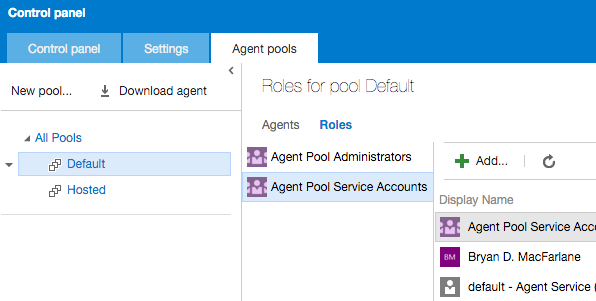
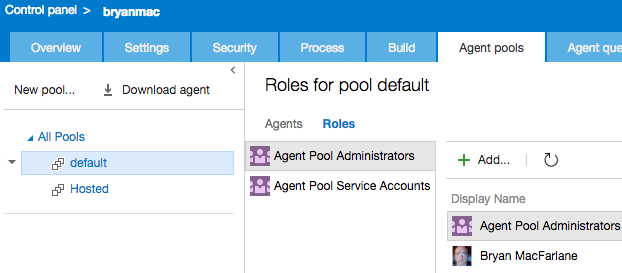
2.102.0 Doc Updates (#287)
* 2.102.0 docs

* 2.102.0 role changes

* 2.102.0 status update

* remove dupe message

* start links

* troubleshooting md

* typo

* troubleshooting content - didn't save

* tweak

* system.debug note

* fiddler docs

Changed region(s): [[0.0, 0.0879, 1.0, 1.0], [0.0, 0.0, 0.2718, 0.0586], [0.0302, 0.7619, 0.3624, 0.7912]]

diff --git a/README.md b/README.md
@@ -9,27 +9,25 @@ Supported on Windows, OSX, Ubuntu and Red Hat.  Written for the .NET Core CLR as
 
 ## Status
 
-A preview is available for Ubuntu, RedHat and OSX for VSTS.  The current preview is more feature complete than the node agent bringing Auto Update, Cancellation, Run as a svc on OSX and Linux, and Gated support.
+The preview is feature complete on all platforms and supported for production use. 
 
-What's missing from the preview? Windows tf.exe support is finishing up. 
+The current preview is more feature complete than the node agent bringing Auto Update, Cancellation, Run as a svc on OSX and Linux, and Gated support.
 
 |   | Build & Test | Preview | Release |
 |---|:-----:|:-----:|:-----:|
-|![Apple](docs/res/apple_med.png) **OSX**|![Build & Test](https://mseng.visualstudio.com/_apis/public/build/definitions/b924d696-3eae-4116-8443-9a18392d8544/3080/badge?branch=master)| [Preview 6 v2.101.1](https://github.com/Microsoft/vsts-agent/releases/tag/v2.101.1) | June |
-|![Ubuntu](docs/res/ubuntu_med.png) **Ubuntu**|![Build & Test](https://mseng.visualstudio.com/_apis/public/build/definitions/b924d696-3eae-4116-8443-9a18392d8544/2853/badge?branch=master)| [Preview 6 v2.101.1](https://github.com/Microsoft/vsts-agent/releases/tag/v2.101.1) | June |
-|![RedHat](docs/res/redhat_med.png) **RedHat**|![Build & Test](https://mseng.visualstudio.com/_apis/public/build/definitions/b924d696-3eae-4116-8443-9a18392d8544/3418/badge?branch=master)| [Preview 6 v2.101.1](https://github.com/Microsoft/vsts-agent/releases/tag/v2.101.1) | June |
-|![Win](docs/res/win_med.png) **Windows**|![Build & Test](https://mseng.visualstudio.com/_apis/public/build/definitions/b924d696-3eae-4116-8443-9a18392d8544/2850/badge?branch=master)| [Preview 3 v2.101.1](https://github.com/Microsoft/vsts-agent/releases/tag/v2.101.1) | |
+|![Apple](docs/res/apple_med.png) **OSX**|![Build & Test](https://mseng.visualstudio.com/_apis/public/build/definitions/b924d696-3eae-4116-8443-9a18392d8544/3080/badge?branch=master)| [RC v2.102.0](https://github.com/Microsoft/vsts-agent/releases/tag/v2.102.0) | Next Drop |
+|![Ubuntu](docs/res/ubuntu_med.png) **Ubuntu**|![Build & Test](https://mseng.visualstudio.com/_apis/public/build/definitions/b924d696-3eae-4116-8443-9a18392d8544/2853/badge?branch=master)| [RC v2.102.0](https://github.com/Microsoft/vsts-agent/releases/tag/v2.102.0) | Next Drop |
+|![RedHat](docs/res/redhat_med.png) **RedHat**|![Build & Test](https://mseng.visualstudio.com/_apis/public/build/definitions/b924d696-3eae-4116-8443-9a18392d8544/3418/badge?branch=master)| [RC v2.102.0](https://github.com/Microsoft/vsts-agent/releases/tag/v2.102.0) | Next Drop |
+|![Win](docs/res/win_med.png) **Windows**|![Build & Test](https://mseng.visualstudio.com/_apis/public/build/definitions/b924d696-3eae-4116-8443-9a18392d8544/2850/badge?branch=master)| [Preview 4 v2.102.0](https://github.com/Microsoft/vsts-agent/releases/tag/v2.102.0) | July |
 
 ## Preview Support
-
-This is the current state of what works with the preview.  
 
 This agent can be used for the VSTS service and it replaces the node agent for TFS2015 On-Prem.
 
 | Scenario | OSX/Unix | Windows | Comment |
 |:-------------:|:-----:|:-----:|:-----:|
 | VSTS Git      |  Yes  | Yes   |
-| VSTS TfsVC    |  Yes  | Soon  |
+| VSTS TfsVC    |  Yes  | Yes  |
 | TFS2015 Git   |  Yes  | No    | Win use agent with 2015 |
 | TFS2015 TfsVC |  Yes  | No    | Win use agent with 2015 |
 
@@ -48,6 +46,10 @@ This agent can be used for the VSTS service and it replaces the node agent for T
 ![ubuntu](docs/res/ubuntu_sm.png)  [Start Ubuntu](docs/start/startubuntu.md)  
 
 ![redhat](docs/res/redhat_sm.png)  [Start RedHat](docs/start/startredhat.md)  
+
+## Troubleshooting
+
+Troubleshooting tips are [located here](docs/troubleshooting.md)
 
 ## Contribute
 

diff --git a/docs/start/nixsvc.md b/docs/start/nixsvc.md
@@ -1,17 +1,23 @@
 # Running As A Service On Unix and OSX
 
-## Configuration
+Key Points:
+  - This is a convenience which only creates OS specific service files.
+  - SystemD is used on Linux.  Ubuntu 16 LTS, Redhat 7.1 has SystemD
+  - SystemD requires sudo so all scripts below must be called with sudo.  OSX does not.
 
-**During configuration, answer Y to run as a service**.  
+## Install
 
-The systemd and launchagent files run ./runsvc.sh which will set PATH to that if it's present.
+Install will create a LaunchAgent plist on OSX or a systemd unit file on Linux
 
-You can also inject anything you want to run when the service runs.  For example setting up environment, calling other scripts etc...
-
-./runsvc.sh
+```bash
+$ ./svc.sh install
+...
+Creating runsvc.sh
+Creating .Service
+svc install complete
 ```
-# insert anything to setup env when running as a service
-```
+
+Service files point to `./runsvc.sh` which will setup the environment and start the agents host.  See Environment section below.
 
 Start and stop the service after making changes
 
@@ -74,7 +80,7 @@ On OSX the convenience default is to create the service as a LaunchAgent.  A Lau
 
 When you install and/or configure tools, your path is often setup or other environment variables are set.  Examples are PATH, JAVA_HOME, ANT_HOME, MYSQL_PATH etc...
 
-If your environment changes at any time, you can run env.sh and it will update your path.  You can also manually edit .Env file.  Changes are retained. 
+If your environment changes at any time, you can run env.sh and it will update your path.  You can also manually edit .env file.  Changes are retained. 
 
 Stop and start the service for changes to take effect.
 
@@ -90,23 +96,34 @@ Started:
 15397 0 vsts.agent.bryanmac.testsvc2
 ```
 
+## Environment
+
 Configuring as a service will snapshot off your PATH and other "interesting variables" like LANG, JAVA_HOME etc..  When the service starts, it will read these and set.  This allows for unified environment management between
 
 ```bash
 $ ls -la
--rwxrwx---    1 bryanmac  staff   189 May 29 11:42 .Agent
--rwxrwx---    1 bryanmac  staff   106 May 29 11:41 .Credentials
--rw-r--r--    1 bryanmac  staff    58 May 29 11:44 .Env
--rw-r--r--    1 bryanmac  staff   187 May 29 11:40 .Path
+-rwxrwx---    1 bryanmac  staff   189 May 29 11:42 .agent
+-rwxrwx---    1 bryanmac  staff   106 May 29 11:41 .credentials
+-rw-r--r--    1 bryanmac  staff    58 May 29 11:44 .env
+-rw-r--r--    1 bryanmac  staff   187 May 29 11:40 .path
 ...
 -rwxr-xr-x    1 bryanmac  staff   546 May 29 11:40 env.sh
+```
+
+Run ./env.sh to update.
+
+You can also inject anything you want to run when the service runs.  For example setting up environment, calling other scripts etc...
+
+./runsvc.sh
+```
+# insert anything to setup env when running as a service
 ```
 
 ## Service Files
 
 This is a convenience that simply creates a service file for you can sets permissions.  You are free to manually configure and control your service using alternate methods.
 
-Details are in .Service file in root of the agent
+Details are in .service file in root of the agent
 
 OSX LaunchAgent: ~/Library/LaunchAgents/vsts.agent.{accountName}.{agentName}.plist
 Linux SystemD: /etc/systemd/system/vsts.agent.{accountName}.{agentName}.service
@@ -117,9 +134,4 @@ OSX: ./bin/vsts.agent.plist.template
 Linux: ./bin/vsts.agent.service.template
 
 For example, on OSX you could use that template to run as a launch daemon if you are not needing UI tests and/or don't want to configure auto logon lock. [Details Here](https://developer.apple.com/library/mac/documentation/MacOSX/Conceptual/BPSystemStartup/Chapters/CreatingLaunchdJobs.html)
-
-
-
-
-
 

diff --git a/docs/troubleshooting.md b/docs/troubleshooting.md
@@ -1,0 +1,71 @@
+# Troubleshooting
+
+The agent sends logs to the server but some failures such as configuration, networking or permissions prevent that.  It requires investigating within the agent.
+
+Often these logs are most relevant to the product but they can sometimes provide hints to a user as what could be wrong.
+
+## System.Debug
+
+If you are having issues with a build, the first step is to set System.Debug to true on the build definitions variables tab.  The agent and tasks will emit [debug]xxx lines for more detailed insight into what the specific task is doing.
+
+## Agent Trace Logs
+
+Logs are in the _diag folder.
+
+The agent has two parts.  The agent which listens to the build queue.  When it gets a build message, it creates a worker process to run that build.  
+
+For example:
+```bash
+$ ls -la _diag/
+-rwxr--r--   1 bryanmac  staff   23126 Jun 11 06:43 Agent_20160611-104223-utc.log
+-rwxr--r--   1 bryanmac  staff   26046 Jun 11 08:39 Agent_20160611-123755-utc.log
+-rwxr--r--   1 bryanmac  staff  240035 Jun 11 08:38 Worker_20160611-123825-utc.log
+-rwxr--r--   1 bryanmac  staff  220196 Jun 11 08:38 Worker_20160611-123843-utc.log
+-rwxr--r--   1 bryanmac  staff  220012 Jun 11 08:39 Worker_20160611-123858-utc.log
+```
+
+If the agent isn't picking up builds, the agent logs are likely the most relevant.  If a build starts running and you want to get details of that build, the specific worker log is relevant.
+
+Secrets are masked out of the logs.
+
+## Http Tracing Windows
+
+Start [Fiddler](http://www.telerik.com/fiddler).  
+It's recommended to only listen to agent traffic.  File, Capture Traffic off (F12) 
+
+Let the agent know to use the proxy:
+
+```bash
+set VSTS_HTTP_PROXY=https://127.0.0.1:8888
+```
+
+Run the agent interactively.  If you're running as a service, you can set as the environment variable in control panel for the account the service is running as.
+
+Restart the agent.
+
+TODO: video
+
+## Http Tracing OSX / Linux
+
+It's easy to capture the http trace of the agent using Charles Proxy (similar to Fiddler on windows).  
+
+TODO: video
+
+Start Charles Proxy
+Charles: Proxy > Proxy Settings > SSL Tab.  Enable.  Add URL
+Charles: Proxy > Mac OSX Proxy.  Recommend disabling to only see agent traffic.
+
+```bash
+export VSTS_HTTP_PROXY=https://127.0.0.1:8888
+```
+
+Run the agent interactively.  If it's running as a service, you can set in the .env file.  See [nix service](start/nixsvc.md)
+
+Restart the agent.
+
+## Security Notice
+
+HTTP traces and trace files can contain credentials.  
+
+1. Do not POST them on a publically accessible site.
+2. If you send them to the product team, they will be treated securely and discarded after the investigation.

diff --git a/docs/start/roles.md b/docs/start/roles.md
@@ -1,17 +1,20 @@
 # Configure Account and Roles
 
-VSTS only for now.  On-prem coming with NTLM support in the works.
+## VSTS
 
 Create a PAT token.  [Step by Step here](http://roadtoalm.com/2015/07/22/using-personal-access-tokens-to-access-visual-studio-online/)
 
-Add the user you created the PAT token for to *both*:
+## On Premises TFS
 
-  1. Agent Pool Administrators (allows to register)
-  2. Agent Pool Service Accounts (allows listening to build queue)
+You can use a domain user but it's recommended to create a local windows user on each of your application tiers specifically for registering build agents.
+
+## Add to Role
+
+Add the user from above to only the Agent Pool Administrators which allows you to register the agent.
 
 ![Agent Roles](roles.png "Agent Roles")
 
 >> TIPS:
 >> You can add to roles for a specific pool or select "All Pools" on the left and grant for all pools.  This allows the account owner to delegate build administration globally or for specific pools.  [More here](https://msdn.microsoft.com/en-us/Library/vs/alm/Build/agents/admin)
->> The PAT token is only used to listen to the message queue for a build job
->> When a build is run, it will generate an OAuth token for the scoped identity selected on the general tab of the build definition.  That token is short lived and will be used to access resource in VSTS
+>> The role is only needed to register the agent.  A token is downloaded to listen to the queue.
+>> When a build is run, it will generate an OAuth token for the scoped identity selected on the general tab of the build definition.  That token is short lived and will be used to access resource in VSTS.  The account used to register the agent has no bearing on the build run time credentials

diff --git a/docs/start/startwin.md b/docs/start/startwin.md
@@ -1,20 +1,18 @@
 # ![win](../res/win_med.png) Windows Agent
 
-> NOTE: Preview 1 only has git support.  TFSVC support is in progress for the next preview.
-
 ## Step 1: System Requirements
 
 [Read here](../preview/latebreaking.md) to ensure system packages are installed
 
 ## Step 2: Download from Releases
 
-Download the agent from [github releases](https://github.com/Microsoft/vsts-agent/releases/tag/v2.101.1)
+Download the agent from [github releases](https://github.com/Microsoft/vsts-agent/releases/tag/v2.102.0)
 
 ## Step 3: Create the agent
 
 ```bash
 c:\ mkdir myagent && cd myagent
-C:\myagent> Add-Type -AssemblyName System.IO.Compression.FileSystem ; [System.IO.Compression.ZipFile]::ExtractToDirectory("$HOME\Downloads\vsts-agent-win7-x64-2.101.1.zip", "$PWD")
+C:\myagent> Add-Type -AssemblyName System.IO.Compression.FileSystem ; [System.IO.Compression.ZipFile]::ExtractToDirectory("$HOME\Downloads\vsts-agent-win7-x64-2.102.0.zip", "$PWD")
 ```
 ## Step 4: Configure
 

diff --git a/docs/start/startubuntu.md b/docs/start/startubuntu.md
@@ -8,13 +8,13 @@
 
 ## Step 2: Download from Releases
 
-Download the agent from [github releases](https://github.com/Microsoft/vsts-agent/releases/tag/v2.101.1)
+Download the agent from [github releases](https://github.com/Microsoft/vsts-agent/releases/tag/v2.102.0)
 
 ## Step 3: Create the agent
 
 ```bash
 ~/$ mkdir myagent && cd myagent
-~/myagent$ tar xzf ~/Downloads/vsts-agent-ubuntu.14.04-x64-2.101.1.tar.gz
+~/myagent$ tar xzf ~/Downloads/vsts-agent-ubuntu.14.04-x64-2.102.0.tar.gz
 ```
 ## Step 4: Configure
 
@@ -30,8 +30,6 @@ Download the agent from [github releases](https://github.com/Microsoft/vsts-agen
 > NOTE: running as a service [details here](nixsvc.md)
 
 ## Step 5: Optionally run the agent interactively
-
-If you didn't run as a service above:
 
 ```bash
 ~/myagent$ ./run.sh

diff --git a/docs/start/startosx.md b/docs/start/startosx.md
@@ -6,13 +6,13 @@
 
 ## Step 2: Download from Releases
 
-Download the agent from [github releases](https://github.com/Microsoft/vsts-agent/releases/tag/v2.101.1)
+Download the agent from [github releases](https://github.com/Microsoft/vsts-agent/releases/tag/v2.102.0)
 
 ## Step 3: Create the agent
 
 ```bash
 ~/$ mkdir myagent && cd myagent
-~/myagent$ tar xzf ~/Downloads/vsts-agent-osx.10.11-x64-2.101.1.tar.gz
+~/myagent$ tar xzf ~/Downloads/vsts-agent-osx.10.11-x64-2.102.0.tar.gz
 ```
 ## Step 4: Configure
 
@@ -28,8 +28,6 @@ Download the agent from [github releases](https://github.com/Microsoft/vsts-agen
 > NOTE: running as a service [details here](nixsvc.md)
 
 ## Step 5: Optionally run the agent interactively
-
-If you didn't run as a service above:
 
 ```bash
 ~/myagent$ ./run.sh

diff --git a/docs/start/startredhat.md b/docs/start/startredhat.md
@@ -6,13 +6,13 @@
 
 ## Step 2: Download from Releases
 
-Download the agent from [github releases](https://github.com/Microsoft/vsts-agent/releases/tag/v2.101.1)
+Download the agent from [github releases](https://github.com/Microsoft/vsts-agent/releases/tag/v2.102.0)
 
 ## Step 3: Create the agent
 
 ```bash
 ~/$ mkdir myagent && cd myagent
-~/myagent$ tar xzf ~/Downloads/vsts-agent-rhel.7.2-x64-2.101.1.tar.gz
+~/myagent$ tar xzf ~/Downloads/vsts-agent-rhel.7.2-x64-2.102.0.tar.gz
 ```
 ## Step 4: Configure
 
@@ -28,8 +28,6 @@ Download the agent from [github releases](https://github.com/Microsoft/vsts-agen
 > NOTE: running as a service [details here](nixsvc.md)
 
 ## Step 5: Optionally run the agent interactively
-
-If you didn't run as a service above:
 
 ```bash
 ~/myagent$ ./run.sh

diff --git a/docs/start/moreconfig.md b/docs/start/moreconfig.md
@@ -19,6 +19,8 @@ Successfully added the agent
 
 # Unconfigure
 
+> Important: If you're running as a service on Linux/OSX, ensure you `stop` then `uninstall` the service before unconfiguring.  See [Nix Service Config](nixsvc.md)
+
 ```bash
 $ ./config.sh remove
 Removing service
